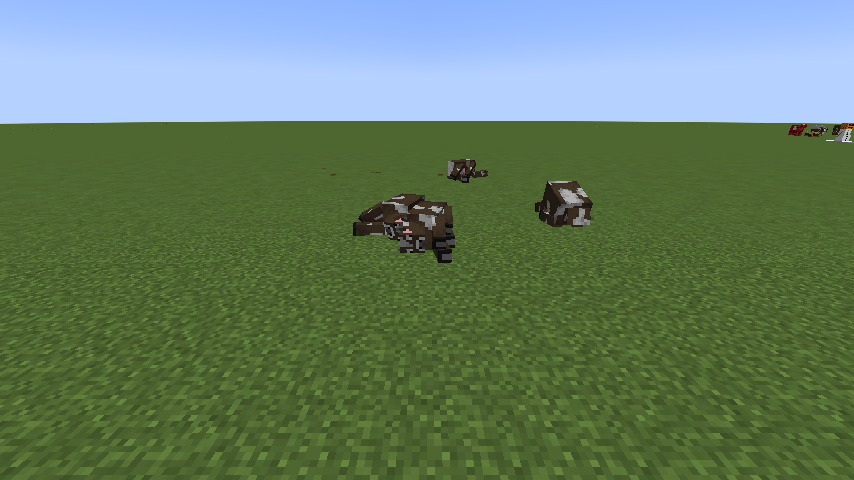
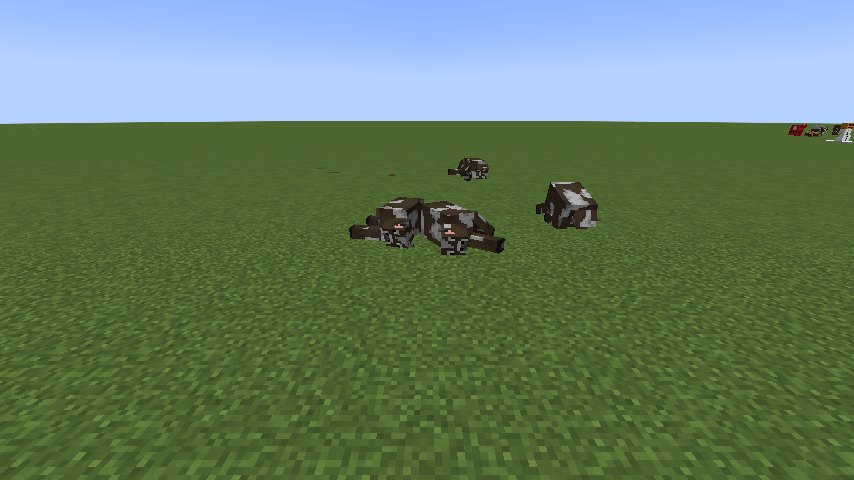
Work in progress: docs for the review's fixes; this run's pictures
Claude-Session: https://claude.ai/code/session_01VFhLqCRBB9EnozqpaTh1tP

diff --git a/docs/ARCHITECTURE-PROPOSAL.md b/docs/ARCHITECTURE-PROPOSAL.md
@@ -5051,9 +5051,10 @@ Butchery by group was shadowed for every vanilla mob by its generated table; now
 
 ### 15.32 (numbered at merge) Dead animals look dead: no carcass is left standing on its legs (verified)
 
-This takes docs/BRIEF-AUDIT.md package 1 further ("dead animals should look dead, limp and heavy"). It needs no open
-decision. The physics measurement (`-Dbloodandbones.debug.rig_compare=true`) was run eight times over on main's physics
-and on this work's, both with this work's measurement, and every number below is from those two runs unless it says
+This takes docs/BRIEF-AUDIT.md package 1 further ("dead animals should look dead, limp and heavy"). One part of it waits
+on the owner: which way a carcass dragged on its feet goes down (BRIEF-AUDIT decision 14, below). The physics
+measurement (`-Dbloodandbones.debug.rig_compare=true`) was run eight times over on main's physics, on this work's first
+version and on this one, all with this work's measurement, and every number below is from those runs unless it says
 otherwise.
 
 **Why a carcass stood.** The showcase's cow struck in the face stood where it was, and the cow set down on a ship's deck
@@ -5063,37 +5064,62 @@ stood on it. Measured, three things held a carcass up, and the resting form then
   swept its front legs back to the end of their swing (75 degrees) and stood on them as on struts, its torso 0.23 blocks
   up where it had stood 0.38 up. A cow struck in the face sat up like a dog, its rear on the ground and its chest a
   third of a block up on straight front legs, which the measurement took for down (its lowest corner touched the
-  ground).
+  ground). A pig in the showcase's row was left balanced on end, belly toward its killer.
 - **A blow too weak to topple it.** A blow to the head is held to what the head can take (15.28), and the rest of it was
   lost: a polar bear struck in the face moved 0.04 blocks and stood, upright to within a hundredth of a degree. A zombie
   or a villager struck from the side on its arm stood too.
 - **The resting form.** Once still for three seconds it folds into one body, pinned as it lies: standing.
-- Spinning the torso about its spine, the first thing tried, did not work: the turn pressed its legs on that side into
-  the ground, which pushed it back, and a polar bear given six such turns came back upright each time.
 
 **What was built.**
-- **Its legs give way** (`carcass/CarcassSlump`). A loose carcass stands when its torso is within 45 degrees of upright,
-  a leg reaches below it by more than a quarter as far as its legs held it (at half, a horse held up on splayed legs at
-  half its height passed), and nothing (the ground, a rack, a deck, another carcass) is that close under the torso; or,
-  on four legs, when it sits up on its front ones, the front of its belly that high and its rear lower. One pitched onto
-  its nose with its rear up is left as it is: that is how a blow from behind leaves it. After half a second standing
-  nearly still (on a ship under way, still on the deck), the whole carcass is set turning over the feet on the side it
-  leans to (standing straight, one side or the other), every part together so no joint fights it, a tenth faster than it
-  takes to carry its middle over those feet, the same for any weight, as a fall is; its legs slide out the other way at
-  3 blocks a second, so it goes down nearer where it stood (a cow set down standing lay 1.8 blocks from where it stood
-  without, 1.7 with; at 5 a sheep went on over onto its back). Until it is down it is not let rest. It tries six times,
-  each a little harder, and then a carcass wedged upright somewhere is let rest as it is. Hung on a hook it is lifted
-  off its legs and never gives way.
-- **Held where it is worked.** A carcass standing on a table or a machine is held there, not tipped off it (a new block
-  tag, `bloodandbones:holds_carcasses`: the Butcher's, Surgery and Steel Tables, the Bleeding Rack and the four
-  machines; a datapack adds its own). Tipped, a cow set down on a Surgery Table or a Mangler, a block wide, went over
-  the side.
+- **Its legs give way** (`carcass/CarcassSlump`). That they do at all is made up: the rigs have no knees to fold at, so
+  a carcass left standing is tipped over by code. Which side it goes to is its own. A loose carcass stands when its
+  torso is within 45 degrees of upright, a leg reaches below it by more than a quarter as far as its legs held it (at
+  half, a horse held up on splayed legs at half its height passed), that leg stands on something, and nothing (the
+  ground, a rack, a deck, another carcass) is that close under the torso; or, on four legs, when it sits up on its
+  front ones, the front of its belly that high and its rear lower; or, on four legs or more, when it is balanced on end,
+  its spine within 15 degrees of straight up or down and what it reaches lowest with resting on something. One pitched
+  onto its nose by a blow from behind is down: that is what the brief asks of that blow (a pig lies 64 degrees nose
+  down, its spine 26 degrees from straight down). One held up in the air, its legs hanging, is not standing, and one in
+  water floats or sinks and is never standing (`CarcassFloat.inLiquid`).
+- **How it goes over.** After half a second standing nearly still (as it really moves: in water its speed is put aside
+  between ticks, CarcassFloat; on a ship under way, still on the deck), the whole carcass is set turning over its
+  outermost foot on one side, every part together so no joint fights it, a tenth faster than it takes to carry its
+  middle over that foot, the same for any weight, as a fall is. On four legs it goes onto the side its torso leans to,
+  however little, or failing that the side its weight lies over its feet; standing upright (a zombie) the way its
+  weight lies over its feet, or failing that the way its torso leans; balanced on end the way its weight lies over
+  that end, or failing that the way its top end leans out. As it goes, the legs of one on four legs slide out the other
+  way, at 7 blocks a second for a cow's legs (0.75 blocks) and slower for shorter ones, as the square root of their
+  length (at 7 a baby wolf slid three blocks). Set down standing, a cow lay 2.1 blocks from where it stood with its legs
+  kept under it, 1.7 with them sliding at 3 blocks a second (this work's first version), 0.6 to 1.2 at 7; at 9 a sheep
+  went on sliding. Going over is what moved it: turned over the outermost foot, its middle swings out as far as it
+  stood high, and the legs sliding the other way take the foot it turns over back under it. Standing so squarely that
+  nothing says which way (built standing, not struck), its legs slide out from under it at 1 block a second, which only
+  breaks the balance; the next time it leans some way (at 3 a sheep splayed its legs and then went over them and slid
+  two blocks; at 7 a cow went on over onto its back). The first version picked the side from the carcass's id when it
+  stood square; nothing does now. Until it is down it is not let rest.
+- **How many times.** Its legs give way at most six times while it stands, each a little harder (half a radian a
+  second more), and then a carcass wedged upright somewhere is let rest as it is. The count starts again once it has
+  been down two seconds, when it rests or is woken, when it is hung, and when a drag takes it up or lets it go; how long
+  it has stood carries on (started again as it was hooked, a cow dragged by a hind leg went down five ticks later, the
+  pull had turned it by then, and it came round rear first less often: 6 runs in 12 more than 60 degrees off, none so).
+  The first version counted for the carcass's whole life and never saved it: 7 of 22 carcasses measured used all six
+  within one drag, after which one set down on its feet would fold standing for good, and each give-way was harder than
+  the last for good.
 - **Dragged along on its feet** (a sheep hooked by a hind leg slid along standing, facing the wrong way) its legs give
-  way however it moves, and it goes down away from the hooked leg, which the pull draws out from under it, so that leg
-  ends on top, free to lead. Not a body that stands upright (a zombie): the leg it is dragged by pulls it off its feet,
-  and it already came round (a zombie 21 degrees off, a villager 9). Its legs do not slide out while it is dragged: they
-  kicked out under a cow pulled by a hind leg, and it came round rear first a little less often (60 degrees or more off
-  in 2 runs of 30; none in 90 without).
+  way however it moves, and it goes down away from the hooked leg, so that leg ends on top, free to lead. That side is
+  picked, not left to the drag, and the owner is asked to decide (BRIEF-AUDIT decision 14). Left to its lean, a cow
+  dragged by a hind leg went down onto that leg about as often as not (36 degrees off rear first, median of eight, and
+  more than 60 in 3 runs of 8, which fails `hindLegHookComesRoundRearFirst`); left to the way it is pulled (away from a
+  pull on a part below its middle, as feet pulled from under a body), a sheep did (52); not tipped at all while
+  dragged, as on main, the sheep is dragged along on its feet (134). Not a body that stands upright (a zombie): the leg
+  it is dragged by pulls it off its feet. Its legs do not slide out while it is dragged: they kicked out under a sheep
+  pulled by a hind leg and it came round rear first less often (61 degrees off where it was 9 without, over four runs,
+  its side left to its lean).
+- **Held where it is worked.** A carcass standing with its feet on a table or a machine is held there, not tipped off it
+  (a block tag, `bloodandbones:holds_carcasses`: the Butcher's, Surgery and Steel Tables, the Bleeding Rack and the four
+  machines; a datapack adds its own). Its feet are the parts it reaches lowest with, and more than half of them must rest
+  on such a block. The first version held one if any part's lowest corner was over one, so a cow on the floor beside a
+  rack with a hoof in its tray, or its head drooped over a table, was held and folded standing.
 - **A blow carries on into the body.** Of what a light part struck could not take (15.28's limit), a fifth goes on into
   the torso where that part's limb joins it (`CarcassAssembler.blow`). At two fifths a cow struck in the face slid 1.7
   blocks, as it did before the limit.
@@ -5101,109 +5127,110 @@ stood on it. Measured, three things held a carcass up, and the resting form then
 **Tests.** `PhysicsTests.dead{Cow,Pig,PolarBear,Horse,Sheep}NeverSettlesStanding`: four of a kind on open ground, struck
 in the face, in the flank and from behind, and one built where it stood and not struck at all, each watched until it
 folds, which it must, and then down (`RigScenarios.stood`: tipped 45 degrees or more, or its torso no higher than a
-quarter of how high it stood, and not sitting up on its front legs). Run on main's physics all five failed, ten
-carcasses of the twenty standing: every one not struck; struck in the face the cow sitting up (15 degrees, its lowest
-corner 0.07 up), the pig on its swept-back legs (0.23 of 0.38 up), the polar bear untouched (0.597 of 0.601 up, 0.04
-from where it stood) and the sheep sitting up; struck from behind the horse (0.746 of 0.757 up). Now all twenty lie
-down: the struck ones and the unstruck on their sides, except those struck from behind, pitched onto the nose (the cow
-at 15 degrees, the pig at 64, the sheep at 22, the bear at 10; the horse went over onto its side), and all rest within
-200 ticks. The test's log says how far each lies from where it stood: set down standing, a sheep 0.9 blocks, a pig 1.1,
-a horse 1.2, a polar bear 1.6, a cow 1.7. `blowToTheHeadSnapsItBackWithoutFlingingIt` now judges the cow's travel along
-the blow (1.25 blocks; its limit stays 1.5) and in any direction (1.36; limit 2), since the cow then goes over onto its
-side.
+quarter of how high it stood, and not sitting up on its front legs, and, on four legs or more, not balanced on end).
+Run on main's physics all five failed, ten carcasses of the twenty standing. Now all twenty lie down, and the test's
+log says how far each lies from where it stood: set down standing, a horse 0.2 to 0.3 blocks, a pig 0.5 to 1.0, a cow
+0.6 to 1.1, a sheep 0.5 to 1.0, a polar bear 0.6 to 1.3 (the first version: 1.2, 1.1, 1.7, 0.9, 1.6). New:
+- `pigBalancedOnEndGoesOver`: a pig set on its snout and one on its rump, spine straight up and down, both go down. With
+  the rule for a carcass on end taken out, the one on its rump rested on end, 3 runs of 3.
+- `carcassStandingOnATableIsHeldThere` (a cow on a patch of Butcher's Tables rests standing where it was set down) and
+  `carcassStandingBesideARackGoesDown` (a cow on the floor with one front hoof in a Bleeding Rack's tray goes down;
+  with the first version's rule it rested standing, 2 runs of 2).
+- `GroupTests.carcassesInWaterAreNotMadeToGiveWay`: a chicken floating up in a pool and a cow sunk to its floor are
+  never tipped (without the water check the sunk cow's legs gave way twice in each run).
+- `UnprovenTests.grapplingSpoolPullRisesWithTheThrottle` (below).
+Tests put back as they were on main, now that a carcass going over moves less: `blowToTheHeadSnapsItBackWithoutFlingingIt`
+again allows 1.5 blocks in any direction (the first version allowed 2), and it now watches the cow for 220 ticks and
+checks that it has gone down by tick 210, so its going over is in what is measured: 1.26 to 1.30 blocks. The two cows of
+`trolleysQueueOnAChain` and `trolleysPassEachOtherAndEmptyOnesLeave` face across the chain again, as on main (the first
+version turned them along it, since they went over onto each other).
 
 **Physics, before and after** (eight runs of every scenario on the twelve mobs; mobs meeting the bar in most runs, of
-twelve, runs meeting it, of 96, and the median of all runs):
+twelve, runs meeting it, of 96, and the median of all runs; "first" is this work's first version):
 
-| Bar | Before | After |
-|---|---|---|
-| Face: down, not left standing | 7 (53) | 12 (96) |
-| Behind: down, not left standing | 10 (84) | 12 (96) |
-| Flank: down, not left standing | 11 (88) | 12 (96) |
-| Flank: on its side, fallen away from the blow | 7 (56) | 9 (72) |
-| Flank: leaning within 60 degrees of the blow's way | 8 (67), 44 degrees off | 10 (80), 33 |
-| Hind-leg hook: rear first within 45 degrees | 3 (35), 64.5 degrees off | 6 (53), 39.5 |
-| Face: knocked back 1.5 blocks or less | 11 (85), 0.90 | 10 (81), 0.94 |
-| Face: within 1.5 blocks of where it stood | 11 (82), 0.94 | 8 (64), 1.22 |
-| Behind: 20 degrees nose down at rest; head on the ground | 5 (40); 8 (65) | 5 (40); 8 (67) |
-| Head hook, held up, hung, steps, cut leg, joints, sinking, folding | within a few runs of where they were | |
+| Bar | Before | First | After |
+|---|---|---|---|
+| Face: down, not left standing | 7 (53) | 12 (96) | 12 (96) |
+| Behind: down, not left standing | 10 (84) | 12 (96) | 12 (96) |
+| Flank: down, not left standing | 11 (88) | 12 (96) | 12 (96) |
+| Flank: on its side, fallen away from the blow | 7 (56) | 9 (72) | 9 (72) |
+| Flank: leaning within 60 degrees of the blow's way | 8 (67), 44 degrees off | 10 (80), 33 | 10 (80), 39 |
+| Hind-leg hook: rear first within 45 degrees | 3 (35), 64.5 degrees off | 6 (53), 39.5 | 6 (50), 42.5 |
+| Face: knocked back 1.5 blocks or less | 11 (85), 0.90 | 10 (81), 0.94 | 10 (80), 0.93 |
+| Face: within 1.5 blocks of where it stood | 11 (82), 0.94 | 8 (64), 1.22 | 10 (80), 1.05 |
+| Behind: 20 degrees nose down at rest; head on the ground | 5 (40); 8 (65) | 5 (40); 8 (67) | 5 (39); 9 (72) |
+| Held upright: head droops; held on its side: legs hang | 10 (80); 8 (68) | 11 (86); 9 (69) | 10 (80); 8 (68) |
+| Head hook, hung, steps, cut leg, joints, sinking, folding | | within a few runs of before | within a few runs of before |
 
 Left standing, by mob, before: struck in the face the cow, llama, pig, polar bear and sheep (every run), struck from
 behind the horse (every run) and the llama (half), struck in the flank the zombie. After: none. Struck in the face each
-now lies on its side, 90 degrees over, where before the cow, llama, pig and sheep sat up at 9 to 21 degrees and the bear
-stood at 0. The last bar is the price: going over onto its side moves the torso's middle sideways, so a carcass struck
-in the face lies 1.22 blocks from where it stood where it lay 0.94 (the polar bear 1.74 where it stood 0.04); knocked
-back along the blow it goes about as far as before (0.94, 0.90), and the bear 0.13.
+now lies on its side, 90 degrees over (the polar bear mostly down on its belly, tilted 42 degrees), where before the
+cow, llama, pig and sheep sat up at 9 to 21 degrees and the bear stood at 0. How far from where it stood,
+struck in the face: the polar bear 0.54 blocks (first version 1.74, main 0.04), the horse 0.99 (1.39, 1.41), the pig
+1.03 (1.17, 0.61), the cow 1.18 (1.35, 1.22), the llama 1.40 (1.63, 1.50), the sheep 1.25 (1.18, 1.22); the two outside
+1.5 are the villager (1.61, as on main 1.56) and the zombie (1.53, main 1.39), which go down as they did. The measurement
+itself changed in two ways: a carcass held up in the air (2a, 2b) is kept from being made to give way, as it is kept from
+folding (the first version kicked the villager and the zombie six times a run while their limbs were measured), and a
+carcass struck in the flank is measured the last tick before it folds if it folds before it keeps still (the chicken's
+twitching legs let it rest first: in 7 runs of 8 the first version measured one body and read nothing).
 
-**Hooked by a hind leg** (the brief: "comes round arse-first"; degrees off rear first while dragged, median of eight):
-sheep 134 to 10, llama 77 to 19, polar bear 121 to 42, wolf 105 to 94, pig 52 to 49, horse 50 to 63, chicken 83 to 126;
-the cow (15 to 19), villager (9) and zombie (21 to 20) as they were. The measurement hooks a carcass five ticks after it
-is built standing, and the sheep and llama were dragged along on their feet; going down away from the hooked leg, they
-come round. The pig comes round at about 49 degrees, just short of the bar's 45, as before. The horse and the chicken do
-not, and the horse got worse: the horse tumbles over its back and on while dragged (its tilt from upright swung between
-30 and 160 degrees through a drag), which damping its roll as its turn is damped (3 and 8 a second) did not help; the
-chicken's leg joins its body under its middle, so which end of it leads says little (the measurement now also reports
-whether the hooked part itself leads, `part_leads_deg`: the chicken's leg is 62 degrees off leading, the sheep's 10).
-Tried and dropped, each over eight runs: falling toward the hooked leg (pig 62, horse 62), giving way sooner (3 ticks:
-pig 61, horse 71), a weaker or stronger damping of the dragged carcass's turn (1.5 and 3 a second for 6: no change
-beyond the noise), and damping its roll. So two of the five the audit named (sheep, llama) now come round rear first,
-the pig nearly, and the horse and the chicken not.
+**Hooked by a hind leg** (the brief: "comes round arse-first"; degrees off rear first while dragged, median of eight;
+main, first version, now): sheep 134, 10, 15; llama 77, 19, 23; pig 52, 49, 30; cow 15, 19, 13; zombie 21, 20, 20;
+villager 9, 9, 4; polar bear 121, 42, 58; wolf 105, 94, 68; horse 50, 63, 82; chicken 83, 126, 110; rabbit 58, 62, 83;
+spider 89, 83, 107. The sheep, llama and pig come round; the horse does not, and is worse than on main (it tumbles over
+its back while dragged; its tilt from upright swung between 30 and 160 degrees through a drag); the chicken's leg joins
+its body under its middle, so which end of it leads says little (the measurement also reports whether the hooked part
+itself leads, `part_leads_deg`).
 
-**Flank blows.** The zombie and the villager, struck on the arm, now go down on their side away from the blow (the
-zombie from 0.8 degrees over to 81, 1 degree off the blow's way; the villager fell over before, but forward or back, 90
-degrees off the blow's way, and now falls away from it, 8 off). The wolf went down on its side away from the blow before
-and still does (90 degrees, 20 off). Not improved: the chicken, struck on its wing, falls forward or back rather than to
-the side, and a little less far (66 degrees over where it went 89, 80 off the blow's way both times; its two legs side
-by side hold it up sideways and its head end is the heavier); the rabbit, struck on its body with the whole blow, slides
-1.7 blocks and tips 31 degrees (its body is wider than it is tall, and its haunches and splayed front legs prop it: it
-lies down, belly to the ground, but not on its side); the spider, struck on a leg held out flat, lies flat, belly on the
-ground, legs sprawled (0.3 degrees): down, but not over. Nothing about which way it falls is scripted, so these are left
-to their shapes.
+**Flank blows.** The zombie and the villager, struck on the arm, now go down on their side away from the blow; the
+wolf did before and still does. Not improved: the chicken, struck on its wing, falls forward or back rather than to the
+side (66 degrees over, 83 off the blow's way); the rabbit slides and lies on its belly, not its side; the spider lies
+flat, legs sprawled.
+
+**The Grappling Spool's pull on a carcass** (`ModuleActions.carcassPull`) is the ground's grip on one lying on its side
+(0.18 blocks a second a tick, `GRIP`) at the bottom of the throttle, and rises with every step of it to a quarter of the
+haul speed at the top (0.26), as it was. The first version floored a quarter of the haul speed at the grip, so the
+bottom 45 per cent of the throttle all pulled alike and the Soul Blood spent there bought nothing.
+`grapplingSpoolPullRisesWithTheThrottle` checks it. The Magnet Coil pulls at the grip (it pulled 0.12, less than the
+grip, and drew in only a carcass left standing).
 
 **What else it changed, and why the tests changed.** Carcasses built standing are the setup of many tests, and every one
 of them now goes over before it rests:
-- The Magnet Coil and the Grappling Spool pulled a carcass by 0.12 and 0.11 blocks a second a tick, less than the
-  ground's grip on one lying on its side: only one left standing slid along, on its feet.
-  `magnetCoilAtHighSpoolDrawsInACarcass` (its cow "lying seven blocks off" had in fact been standing) drew the lying cow
-  0.15 blocks. Both now pull at least 0.18 (`ModuleActions.GRIP`): the lying cow comes in 3.5 blocks in two seconds, and
-  the spool hands it to the Meat Hook.
 - Tests that hook a named leg of a cow that has gone over hook the one on top (`lyingCarcassHooksThePartAimedAt`,
   `meatHookDoesNotHookThroughAWall`, `meatHookDragsByLeg`): the one under it is hidden behind the other, or pinned under
-  the body (dragged by a pinned front leg, the leg trailed its target by 1.3 blocks, 1 run in 20).
+  the body.
 - Tests timed on a cow folding a fixed time after it is built wait for it to fold (`restingFormFoldsAndUnfolds`,
   `punchWakesRestingCarcass`, `restingCarcassFallsWhenUnsupported`); the fold/unfold test compares with the poses of the
-  last tick before it folded. The rigged-mob assembly tests look once a falling carcass has landed (a ravager going over
-  swung a leg 2.8 blocks up mid-fall).
-- Two cows on a chain are set down facing along it (`trolleysQueueOnAChain`: facing across, they went over onto each
-  other, one under the other where its trolley could not hoist it), and the cow meant to rot in
-  `rottenCarcassFallsApart` faces away from the blue ice (going over toward it, it came within the cold's reach).
+  last tick before it folded. The rigged-mob assembly tests look once a falling carcass has landed.
+- `raycastHitsLegs` looks at the legs before they give way (it looked ten ticks after building, the tick the legs are
+  kicked out, and a leg was no longer where its middle had been read).
+- `droppedCarcassThuds`: a cow going over thuds as its head comes down on the ground, as it should, so the quiet one is
+  a cow lying down, woken where it rests.
+- The cow meant to rot in `rottenCarcassFallsApart` faces away from the blue ice (going over toward it, it came within
+  the cold's reach).
 
 **The showcase.** `showcase_1`, "machines from above", was photographed from the ground: the player was put four blocks
-up but not flying, and fell before the picture, so the machines sat at its top edge. A view can now hold the player
-where it was put (`View.fly`), and this one does: the row of machines, each with its carcass, is in the middle of the
-picture. The dropped cow on the flying ship is photographed 260 ticks after it lands, not 180 (it goes over before it
-rests; the test of it logs 169). Looked at, before (main) and after: `physics_1`, the three struck cows: before, the one
-struck in the face stood in the middle on straight legs; now it lies on its side, legs toward the camera, beside the one
-struck in the flank; the one struck from behind lies nose down as before. `contraption_3`, the flying ship: before, the
-cow dropped on the deck stood on it; now both cows on the deck lie on their sides, and the log says the dropped one
-rests pinned to the deck. `showcase_0`, the row of carcasses: before, a pig was balanced upright on its snout; now it
-lies on its side. `physics_2` (the three hung cows, one swinging, one a leg short with the leg below it) is unchanged.
-In docs/screenshots, `ship_moving_carcasses.png` (`contraption_2`: the cow resting on the flying ship's deck now lies on
-its side), `ship_dropped_cow_rests.png` (`contraption_3`) and `showcase_1.png` are the new pictures, and
-`struck_cows_down.png` is `physics_1`. `physics_0`, the cow dragged by a hind leg seen from in front of its dragger,
-shows nothing either before or after: the third-person camera in front of the player is blocked and pulled in to a
-close-up of the player (the cow, which starts standing beside the player, was ahead of them, head first, crosswise
-after), as 15.28 noted in one run of three. Left as it was.
+up but not flying, and fell before the picture. A view can now hold the player where it was put (`View.fly`), and this
+one does. The dropped cow on the flying ship is photographed 260 ticks after it lands, not 180. Looked at, before
+(main) and after: `physics_1`, the three struck cows: before, the one struck in the face stood between the other two;
+now it lies on its side beside the one struck in the flank, touching it, not over onto it (the first version's went
+over onto it); the one struck from behind lies nose down as before. `contraption_2` and `contraption_3`: the cows on the
+flying ship's deck lie on their sides. `showcase_0`, the row: the first version's picture still had a pig balanced on
+end; in this run no carcass in the row was left so, and the pig lies on its side (a carcass on end is tipped now, and
+`pigBalancedOnEndGoesOver` tests it). `groups_1`: the showcase's log has no carcass in the pool made to give way (the
+first version's floated chicken was spun onto its side, and its sunk cow four times over). `physics_2` is unchanged. In
+docs/screenshots, `ship_moving_carcasses.png` (`contraption_2`), `ship_dropped_cow_rests.png` (`contraption_3`),
+`showcase_1.png` and `struck_cows_down.png` (`physics_1`) are this run's pictures. `physics_0`, the cow dragged by a hind
+leg seen from in front of its dragger, shows only the player, as 15.28 noted: left as it was.
 
-**The suite** is 626 tests (five new) and passed three times in a row. Two failures along the way were not from this
-work and did not come back: once the test server failed to start ("Found unused register callbacks" from Create's
-registration; the same run again started), and once `diggerDigsUp` found nothing in 400 ticks, its minion never leaving
-where it was made (it passed 20 runs of 20 on its own and in the next five full runs).
+**The suite** is 631 tests (ten new) and passed three times in a row.
 
 **Left open.**
-- The horse, pig and chicken hooked by a hind leg, and the chicken, rabbit and spider struck in the flank (above).
-- A carcass going over moves its middle a block or more, more than a real body buckling at the knees would; the rigs
-  have no knees.
+- Which way a carcass dragged on its feet goes down (BRIEF-AUDIT decision 14).
+- The horse, polar bear and chicken hooked by a hind leg, and the chicken, rabbit and spider struck in the flank.
+- Going over still moves a carcass's middle up to about a block and a quarter, more than a body buckling at the knees
+  would; the rigs have no knees. A sheep set down standing now and then goes on over onto its back (2 runs in 11): its
+  box is flatter than it is wide, and lies lower so.
 - A carcass on a table or a machine still stands on it if set down standing (it is held there): the showcase's pig on
   its Guillotine and zombie on its Beheader stand as before.
 - `physics_0`'s camera (above).

diff --git a/docs/BRIEF-AUDIT.md b/docs/BRIEF-AUDIT.md
@@ -90,6 +90,16 @@ Each decision unblocks one or more work packages below; the package numbers are 
 13. **The fourteen defaults of ARCHITECTURE 15.1** are still unconfirmed (docs/NEXT.md). Two of them overlap with decisions above:
     - #5 (heavy pieces never become items) is decision 2;
     - #8 (other illagers and the witch also make surgeons) goes with decision 12.
+14. **Which way a dragged carcass goes down (ARCHITECTURE 15.32).**
+    - The rigs' legs cannot fold, so a dead animal left standing is tipped over by code when its legs "give way". A loose
+      one goes the way it already leans. The brief says "Nothing about which way it falls should be scripted."
+    - One dragged by a leg while it is still on its feet is tipped away from that leg, so the leg ends on top and can
+      lead. That side is picked by code, not by the drag.
+    - Measured (eight runs, degrees off rear first while dragged by a hind leg): picked away from the leg, the cow 13, the
+      sheep 15, the llama 23; left to its lean, the cow 36 (and more than 60 in 3 runs of 8, which fails
+      `hindLegHookComesRoundRearFirst`); left to the way it is pulled, the sheep 52; not tipped while dragged, as on main,
+      the sheep 134 (dragged along on its feet, facing the wrong way).
+    - Choose one: keep the picked side (the build's default), leave it to the lean, or do not tip a dragged carcass. [1]
 
 ## Work packages
 
@@ -105,10 +115,13 @@ The packages are in order of how much their gap hurts the brief:
 Built in part (ARCHITECTURE 15.28, and 15.32 "Dead animals look dead", numbered at merge): the part aimed at is hooked,
 the blow lands where it hits, heads loll, hung carcasses swing, bone and plate weigh more, the tests check directions.
 15.32: no dead animal is left standing on its legs any more (struck in the face, set down on a ship's deck, sitting up
-on its front legs): its legs give way and it goes over onto its side, 12 of 12 mobs down after every blow where 7 were
-after a blow in the face; hooked by a hind leg, 6 of 12 come round rear first where 3 did (the sheep and the llama now;
-the pig nearly; the horse and the chicken not). Still open: the horse, pig and chicken hooked by a hind leg, the chicken,
-rabbit and spider struck in the flank, and decisions 4 and 5. The rest of this section is kept as it was written.
+on its front legs, balanced on end): its legs give way and it goes over onto its side, 12 of 12 mobs down after every
+blow where 7 were after a blow in the face; hooked by a hind leg, 6 of 12 come round rear first where 3 did (the sheep,
+the llama and the pig now; the horse, the polar bear and the chicken not). That its legs give way at all is made up
+(the rigs have no knees to fold at): a carcass left standing is tipped over by code. Which side it goes to is its own
+lean, except when it is dragged by a leg on its feet, where the side is picked (decision 14). Still open: the horse,
+polar bear and chicken hooked by a hind leg, the chicken, rabbit and spider struck in the flank, and decisions 4, 5
+and 14. The rest of this section is kept as it was written.
 
 **Why.** The brief says: "This is the part that's been hardest and I care about it most."
 - Hook a hind leg and the animal comes round arse-first; hook the head and it follows head-first.

diff --git a/CHANGELOG.md b/CHANGELOG.md
@@ -22,12 +22,16 @@ Everything below is in development builds only; the art is placeholder (see the 
   or a ship's side. Hook the head and it follows head first. Hook a cow by a hind leg and walk off
   and it comes round rear first; about half the animals do so far.
 - A dead animal no longer comes to rest standing on its legs, which looked alive: one left standing
-  (struck in the face, or set down on a ship's deck), sitting up on its front legs, or held up on
-  splayed legs has its legs give way, and it goes over onto its side where it stood. One on a table
-  or a machine is held there. A zombie or a villager struck from the side on its arm now goes down.
+  (struck in the face, or set down on a ship's deck), sitting up on its front legs, held up on
+  splayed legs or balanced on end has its legs give way, and it goes over onto the side it leans
+  to, its legs sliding out from under it, within about a block of where it stood. One standing
+  with its feet on a table or a machine is held there; one beside it, a hoof or its head over it,
+  is not. One floating or held up in the air is not standing. A zombie or a villager struck from
+  the side on its arm now goes down.
 - Hooked by a hind leg while still on its feet, an animal goes down away from that leg and comes
-  round rear first: a sheep and a llama now do (a sheep used to be dragged along on its feet,
-  facing the wrong way); a pig about as often as before, a horse and a chicken not yet.
+  round rear first: a sheep, a llama and a pig now do (a sheep used to be dragged along on its
+  feet, facing the wrong way); a horse, a polar bear and a chicken not yet. That side is picked,
+  not left to the drag, until the owner decides (docs/BRIEF-AUDIT.md decision 14).
 - A carcass dragged along no longer swings on past the way it should trail and rocks there: a cow
   dragged by a hind leg now and then ended up crosswise.
 - The killing blow lands where it hits: struck in the flank most carcasses go down on their side,
@@ -266,7 +270,8 @@ Everything below is in development builds only; the art is placeholder (see the 
 - The Grappling Spool gives a carcass it reels in time to arrive. One six blocks off often stopped a step short and
   was never handed to the Meat Hook.
 - The Magnet Coil and the Grappling Spool now pull in a carcass lying on its side; their pull was
-  less than the ground's grip, so only one left standing on its feet slid along.
+  less than the ground's grip, so only one left standing on its feet slid along. The spool's pull
+  still rises with every step of its throttle.
 - The Grappling Spool hands a carcass to the Meat Hook as soon as it is within the hook's reach. One that the ground
   stopped a little further off than arm's length was never handed over.
 - Set bonuses: four or more flesh grafts heal you from what you hit and rot half as fast; four or more

diff --git a/README.md b/README.md
@@ -119,7 +119,7 @@ incremental. `./gradlew runClient` / `runServer` / `runData` are configured by M
 
 ### Development aids
 
-- `./gradlew runGameTestServer` runs the game tests headless (626: every rigged mob and baby, mobs with no rig of their own and weight classes,
+- `./gradlew runGameTestServer` runs the game tests headless (631: every rigged mob and baby, mobs with no rig of their own and weight classes,
   butchery and its three yield paths, rot, cold air, bleeding, machines, their motion and their part filters, cooking and display, decoration, surgery and its screen's choices, the body through a real death, organs, implants, backtanks, carcass armour and its traits, trait effects, minions and their tasks, movement and mounts, chains, recipes
   and the soul blood line on Create's machines, bloodless mode (no game logic reads it; no gory word or wet sound
   left), advancements and sounds, what a dozen carcasses at once cost the server, and the carcass physics: which way a
